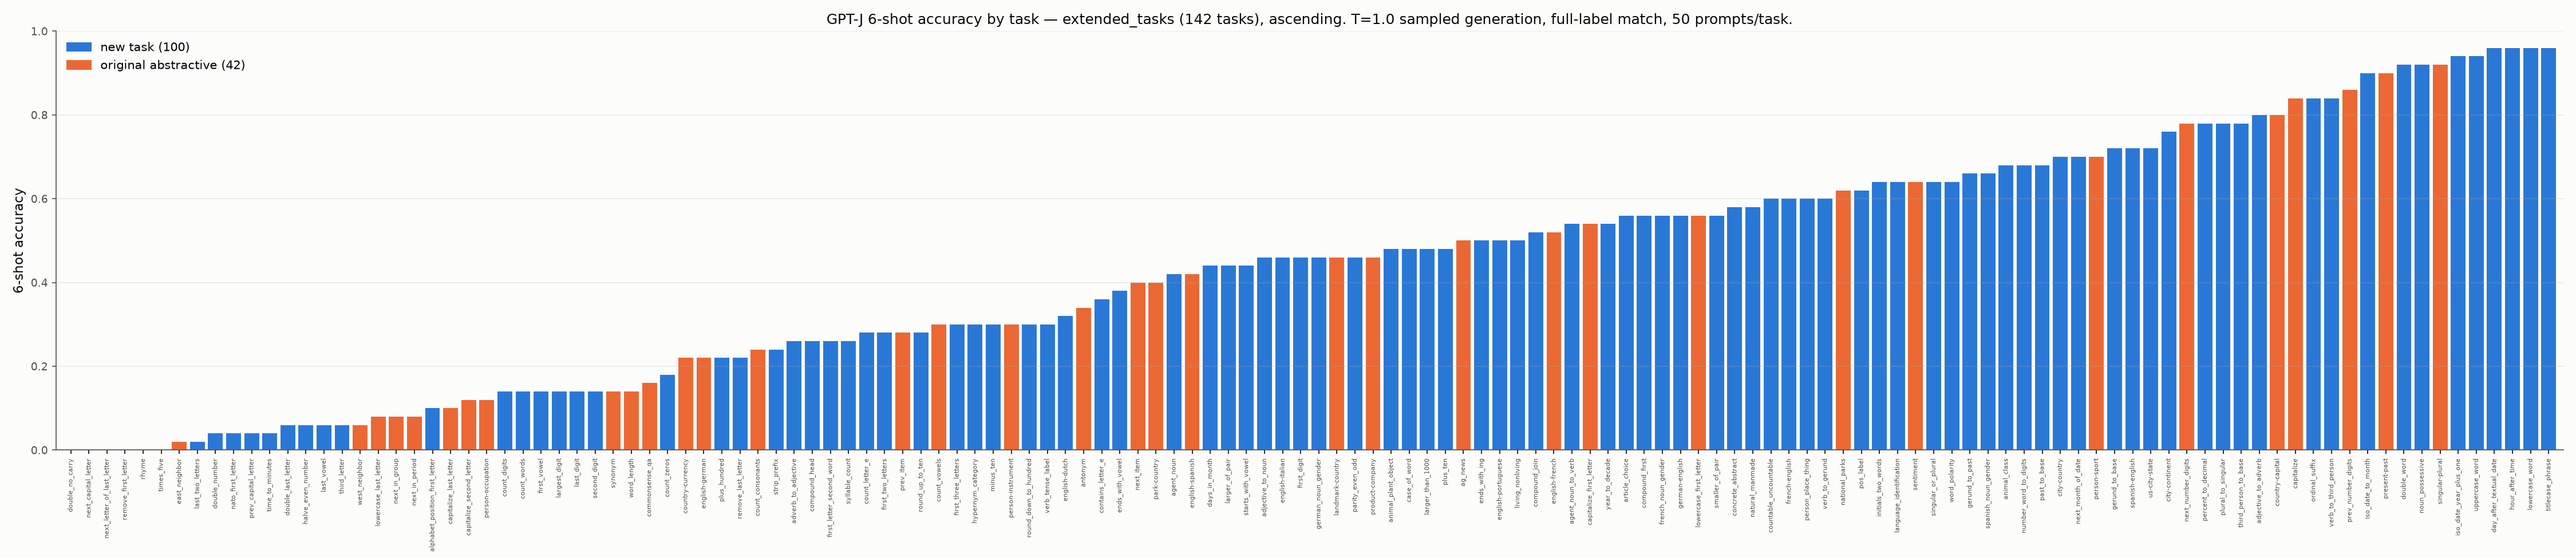
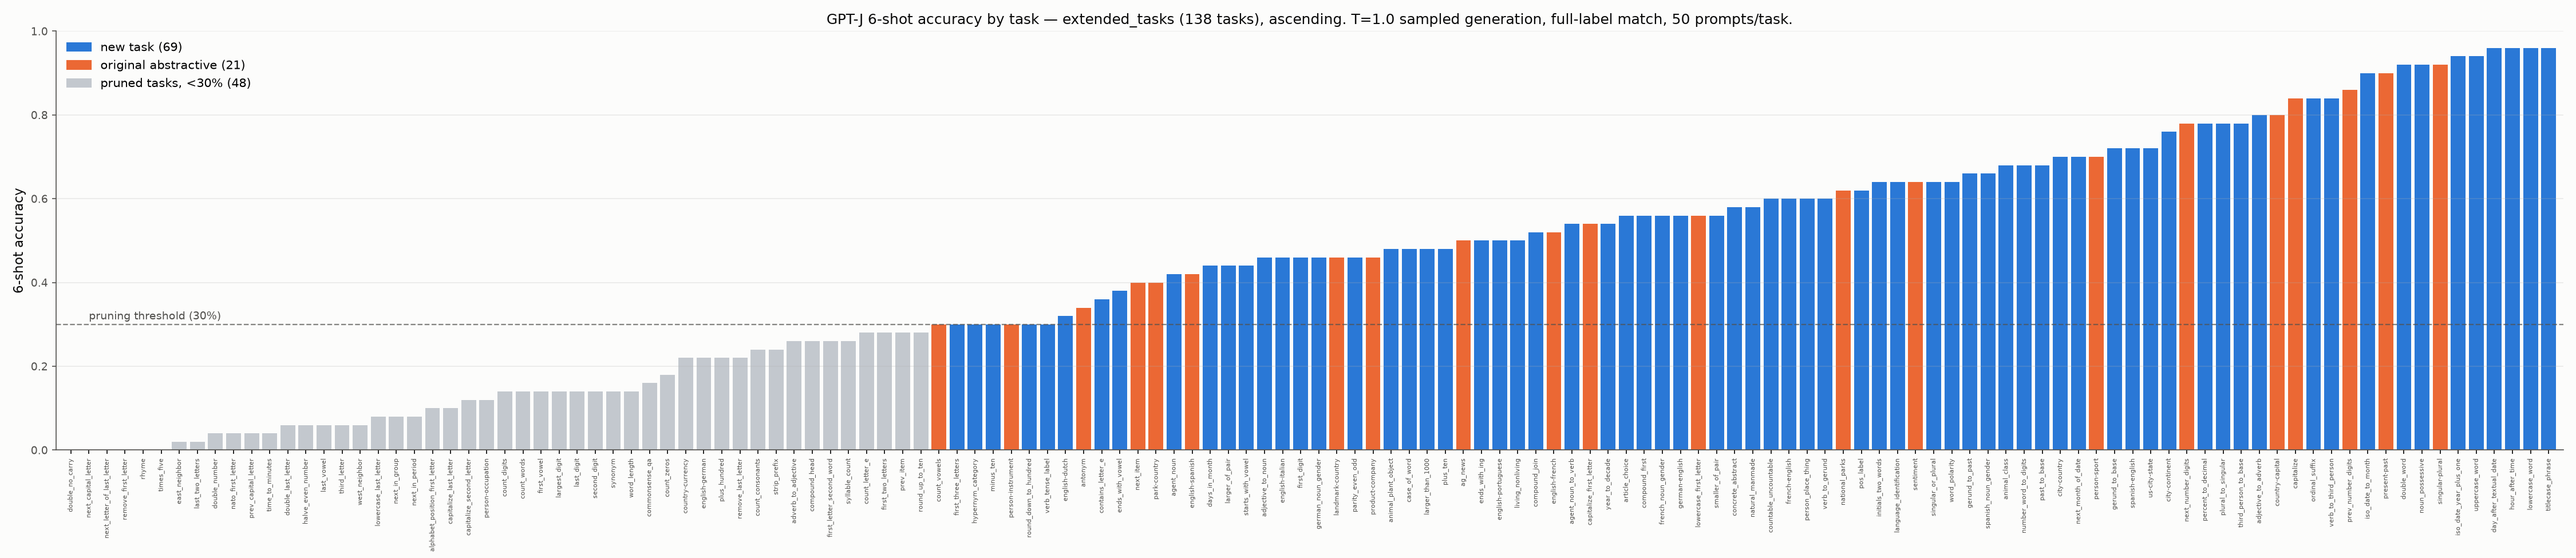
nshot bar chart: pruned-tasks class (<30%) + threshold line; add 138-task catalog figure

Changed region(s): [[0.0622, 0.5846, 0.3733, 0.8308], [0.0311, 0.5538, 0.0933, 0.5846], [0.0311, 0.1231, 0.0933, 0.1538]]

diff --git a/src/eval_scripts/plot_extended_tasks_catalog.py b/src/eval_scripts/plot_extended_tasks_catalog.py
@@ -1,0 +1,196 @@
+#!/usr/bin/env python
+"""Catalog figure of ALL extended_tasks: name, short description, one illustrative example,
+6-shot accuracy — grouped by lane, 3 columns, one tall PNG for pasting into a write-up.
+Tasks under the 30% pruning threshold are greyed and tagged 'pruned'.
+
+Writes results/general/extended_tasks_nshot_sweep/extended_tasks_catalog.png
+"""
+import csv
+import json
+import sys
+import textwrap
+from pathlib import Path
+
+import matplotlib
+matplotlib.use("Agg")
+import matplotlib.pyplot as plt
+
+REPO_ROOT = Path(__file__).resolve().parents[2]
+sys.path.insert(0, str(REPO_ROOT / "src"))
+from utils.paths import GENERAL_DIR  # noqa: E402
+
+ET = REPO_ROOT / "dataset_files" / "extended_tasks"
+OUT = GENERAL_DIR / "extended_tasks_nshot_sweep" / "extended_tasks_catalog.png"
+PRUNE_AT = 0.30
+C_NEW, C_ORIG, C_PRUNED = "#2a78d6", "#9a5b22", "#9aa1a9"
+INK, INK2 = "#0b0b0b", "#52514e"
+
+ORIG_DESC = {
+    "ag_news": "News snippet -> section (Business/Science/Sports/World).",
+    "antonym": "Word -> its antonym.",
+    "capitalize": "Word -> same word, first letter capitalized.",
+    "capitalize_first_letter": "Word -> its first letter, uppercased.",
+    "capitalize_last_letter": "Word -> its last letter, uppercased.",
+    "capitalize_second_letter": "Word -> its second letter, uppercased.",
+    "commonsense_qa": "Multiple-choice question -> letter of correct option.",
+    "count_consonants": "Word -> number of consonants.",
+    "count_vowels": "Word -> number of vowels.",
+    "country-capital": "Country -> capital city.",
+    "country-currency": "Country -> official currency.",
+    "east_neighbor": "Country -> neighboring country to its east.",
+    "west_neighbor": "Country -> neighboring country to its west.",
+    "english-french": "English word -> French translation.",
+    "english-german": "English word -> German translation.",
+    "english-spanish": "English word -> Spanish translation.",
+    "landmark-country": "Landmark/institution -> its country.",
+    "lowercase_first_letter": "ALL-CAPS word -> first letter, lowercased.",
+    "lowercase_last_letter": "ALL-CAPS word -> last letter, lowercased.",
+    "national_parks": "US park/monument -> its state.",
+    "next_capital_letter": "Word -> alphabet successor of first letter, uppercased.",
+    "next_in_group": "Element -> next element in periodic-table group.",
+    "next_in_period": "Element -> next element in its period.",
+    "next_item": "Sequence word -> next item in the sequence.",
+    "prev_item": "Sequence word -> previous item in the sequence.",
+    "next_number_digits": "Digit string -> next integer.",
+    "prev_number_digits": "Digit string -> previous integer.",
+    "park-country": "National park -> its country.",
+    "person-instrument": "Musician -> instrument they play.",
+    "person-occupation": "Person -> their occupation.",
+    "person-sport": "Athlete -> sport they play.",
+    "present-past": "Verb -> its simple past tense.",
+    "product-company": "Product -> company behind it.",
+    "rhyme": "Word -> a rhyming word.",
+    "sentiment": "Review snippet -> positive or negative.",
+    "singular-plural": "Singular noun -> its plural.",
+    "synonym": "Word -> a synonym.",
+    "word_length": "Word -> its number of characters.",
+}
+ORIG_LANE = {
+    "orthographic": ["capitalize", "capitalize_first_letter", "capitalize_last_letter",
+                     "capitalize_second_letter", "lowercase_first_letter", "lowercase_last_letter",
+                     "next_capital_letter", "word_length", "count_consonants", "count_vowels"],
+    "numeric_sequence": ["next_item", "prev_item", "next_number_digits", "prev_number_digits",
+                         "next_in_group", "next_in_period"],
+    "morphology_lexical": ["antonym", "synonym", "present-past", "singular-plural", "rhyme"],
+    "knowledge_translation": ["ag_news", "commonsense_qa", "country-capital", "country-currency",
+                              "east_neighbor", "west_neighbor", "english-french", "english-german",
+                              "english-spanish", "landmark-country", "national_parks",
+                              "park-country", "person-instrument", "person-occupation",
+                              "person-sport", "product-company", "sentiment"],
+}
+LANE_OF = {t: lane for lane, ts in ORIG_LANE.items() for t in ts}
+NEW_LANE_MAP = {"digit_query": "numeric_sequence", "counting": "numeric_sequence",
+                "arithmetic": "numeric_sequence", "classification": "numeric_sequence",
+                "formatting": "numeric_sequence", "comparison": "numeric_sequence",
+                "dates": "numeric_sequence", "time": "numeric_sequence",
+                "translation": "knowledge_translation", "word_classification": "knowledge_translation",
+                "linguistic_knowledge": "knowledge_translation", "world_knowledge": "knowledge_translation",
+                "semantic_classification": "knowledge_translation",
+                "grammatical_classification": "morphology_lexical",
+                "morphology-inflection": "morphology_lexical", "morphology-derivation": "morphology_lexical",
+                "word-property": "morphology_lexical", "lexical-semantic": "morphology_lexical",
+                "phonology": "morphology_lexical",
+                "orthographic": "orthographic", "numeric_sequence": "numeric_sequence",
+                "morphology_lexical": "morphology_lexical", "knowledge_translation": "knowledge_translation"}
+LANE_LABEL = {"orthographic": "ORTHOGRAPHIC / CHARACTER OPERATIONS",
+              "numeric_sequence": "NUMBERS, DATES & SEQUENCES",
+              "morphology_lexical": "MORPHOLOGY & LEXICAL RELATIONS",
+              "knowledge_translation": "WORLD KNOWLEDGE, TRANSLATION & CLASSIFICATION"}
+LANE_ORDER = ["orthographic", "numeric_sequence", "morphology_lexical", "knowledge_translation"]
+
+
+def pick_example(task):
+    data = json.load(open(ET / f"{task}.json"))
+    cands = sorted((p for p in data if len(str(p["input"])) <= 40), key=lambda p: len(str(p["input"])))
+    p = cands[len(cands) // 3] if cands else data[0]
+    i, o = str(p["input"]), str(p["output"])
+    return (i[:37] + "…" if len(i) > 40 else i), (o[:22] + "…" if len(o) > 25 else o)
+
+
+def main():
+    specs = {s["name"]: s for s in json.load(open(ET / "_resources/new_task_specs.json"))["specs"]}
+    manifest = json.load(open(ET / "manifest.json"))["tasks"]
+    acc6 = {r["task"]: float(r["accuracy"]) for r in
+            csv.DictReader(open(GENERAL_DIR / "extended_tasks_nshot_sweep" / "nshot_accuracy.csv"))
+            if r["n_shots"] == "6"}
+
+    entries = []
+    for t in sorted(manifest):
+        is_new = manifest[t]["origin"] == "new"
+        lane = NEW_LANE_MAP[specs[t]["lane"]] if is_new else LANE_OF[t]
+        desc = (specs[t]["rule"] if is_new else ORIG_DESC[t]).replace("->", "→")
+        desc = textwrap.shorten(desc, width=118, placeholder="…")
+        ex_i, ex_o = pick_example(t)
+        entries.append({"task": t, "lane": lane, "new": is_new, "acc": acc6.get(t),
+                        "desc": textwrap.wrap(desc, 58)[:2], "ex": f"{ex_i} → {ex_o}"})
+
+    # flatten with lane headers, sorted by accuracy desc inside each lane
+    items = []
+    for lane in LANE_ORDER:
+        sub = sorted((e for e in entries if e["lane"] == lane), key=lambda e: -(e["acc"] or 0))
+        items.append({"header": f"{LANE_LABEL[lane]}  ({len(sub)})"})
+        items.extend(sub)
+
+    # measure heights (in text lines)
+    def h(item):
+        return 1.0 if "header" in item else 1.05 + len(item["desc"]) * 0.82 + 0.95
+
+    total = sum(h(i) for i in items)
+    ncols = 3
+    per_col = total / ncols
+    cols, cur, acc_h = [[]], 0, 0.0
+    for it in items:
+        if acc_h + h(it) > per_col * 1.02 and cur < ncols - 1 and "header" not in it:
+            cols.append([])
+            cur += 1
+            acc_h = 0.0
+        cols[cur].append(it)
+        acc_h += h(it)
+
+    col_lines = max(sum(h(i) for i in c) for c in cols)
+    LINE_IN = 0.155
+    fig_h = col_lines * LINE_IN + 1.1
+    fig_w = 13.6
+    fig = plt.figure(figsize=(fig_w, fig_h), facecolor="#fcfcfb")
+    fig.text(0.5, 1 - 0.25 / fig_h, "extended_tasks catalog — 138 ICL tasks", ha="center",
+             fontsize=13, fontweight="bold", color=INK)
+    fig.text(0.5, 1 - 0.48 / fig_h,
+             "rule, one dataset example, and GPT-J 6-shot accuracy (T=1.0 sampled, 50 prompts); "
+             "grey = pruned (<30%); blue = new task, brown = original",
+             ha="center", fontsize=8.5, color=INK2)
+
+    x0s = [0.015, 0.352, 0.689]
+    colw = 0.31
+    top = 1 - 0.75 / fig_h
+    for ci, col in enumerate(cols):
+        y = top
+        x = x0s[ci]
+        for it in col:
+            if "header" in it:
+                y -= 0.55 * LINE_IN / fig_h
+                fig.text(x, y, it["header"], fontsize=8.2, fontweight="bold", color=INK,
+                         family="sans-serif")
+                y -= 1.0 * LINE_IN / fig_h
+                continue
+            pruned = (it["acc"] or 0) < PRUNE_AT
+            name_c = C_PRUNED if pruned else (C_NEW if it["new"] else C_ORIG)
+            txt_c = C_PRUNED if pruned else INK
+            tag = f'{(it["acc"] or 0) * 100:.0f}%' + ("  · pruned" if pruned else "")
+            fig.text(x, y, it["task"], fontsize=7.6, fontweight="bold", family="monospace",
+                     color=name_c)
+            fig.text(x + colw, y, tag, fontsize=7.0, family="monospace", color=txt_c, ha="right")
+            y -= 1.05 * LINE_IN / fig_h
+            for line in it["desc"]:
+                fig.text(x + 0.008, y, line, fontsize=6.9, color=txt_c)
+                y -= 0.82 * LINE_IN / fig_h
+            fig.text(x + 0.008, y, it["ex"], fontsize=6.9, family="monospace",
+                     color=C_PRUNED if pruned else INK2)
+            y -= 0.95 * LINE_IN / fig_h
+
+    fig.savefig(OUT, dpi=200, facecolor="#fcfcfb", bbox_inches="tight")
+    plt.close(fig)
+    print(f"wrote {OUT} ({len(entries)} tasks)")
+
+
+if __name__ == "__main__":
+    main()

diff --git a/src/eval_scripts/plot_extended_nshot_bar.py b/src/eval_scripts/plot_extended_nshot_bar.py
@@ -21,7 +21,9 @@ from utils.paths import GENERAL_DIR  # noqa: E402
 
 # validated reference palette (dataviz skill): slot1 blue / slot2 orange, light surface
 C_NEW, C_ORIG = "#2a78d6", "#eb6834"
+C_PRUNED = "#c3c8ce"
 SURFACE, INK, INK2 = "#fcfcfb", "#0b0b0b", "#52514e"
+PRUNE_AT = 0.30
 
 
 def main():
@@ -36,7 +38,10 @@ def main():
     rows.sort(key=lambda r: float(r["accuracy"]))
     tasks = [r["task"] for r in rows]
     accs = [float(r["accuracy"]) for r in rows]
-    colors = [C_NEW if r["origin"] == "new" else C_ORIG for r in rows]
+    # tasks under the 30% pruning threshold are shown as a neutral "pruned" class
+    colors = [C_PRUNED if float(r["accuracy"]) < PRUNE_AT
+              else (C_NEW if r["origin"] == "new" else C_ORIG) for r in rows]
+    n_pruned = sum(1 for a in accs if a < PRUNE_AT)
 
     fig, ax = plt.subplots(figsize=(30, 6.5))
     fig.patch.set_facecolor(SURFACE)
@@ -47,7 +52,7 @@ def main():
     ax.set_xlim(-0.8, len(tasks) - 0.2)
     ax.set_ylim(0, 1.0)
     ax.set_ylabel(f"{args.n}-shot accuracy", fontsize=11, color=INK)
-    ax.set_title(f"GPT-J {args.n}-shot accuracy by task — extended_tasks (142 tasks), ascending. "
+    ax.set_title(f"GPT-J {args.n}-shot accuracy by task — extended_tasks ({len(tasks)} tasks), ascending. "
                  f"T=1.0 sampled generation, full-label match, 50 prompts/task.",
                  fontsize=12, color=INK)
     ax.grid(axis="y", alpha=0.25)
@@ -56,8 +61,13 @@ def main():
         ax.spines[s].set_visible(False)
     for s in ("left", "bottom"):
         ax.spines[s].set_color(INK2)
-    ax.legend(handles=[Patch(color=C_NEW, label="new task (100)"),
-                       Patch(color=C_ORIG, label="original abstractive (42)")],
+    ax.axhline(PRUNE_AT, color=INK2, lw=1.1, ls="--", alpha=0.7)
+    ax.text(1, PRUNE_AT + 0.012, "pruning threshold (30%)", fontsize=9, color=INK2)
+    n_new = sum(1 for r in rows if r["origin"] == "new" and float(r["accuracy"]) >= PRUNE_AT)
+    n_orig = sum(1 for r in rows if r["origin"] != "new" and float(r["accuracy"]) >= PRUNE_AT)
+    ax.legend(handles=[Patch(color=C_NEW, label=f"new task ({n_new})"),
+                       Patch(color=C_ORIG, label=f"original abstractive ({n_orig})"),
+                       Patch(color=C_PRUNED, label=f"pruned tasks, <30% ({n_pruned})")],
               loc="upper left", fontsize=10, frameon=False)
     fig.tight_layout()
     out = root / f"nshot_bar_{args.n}shot.png"
